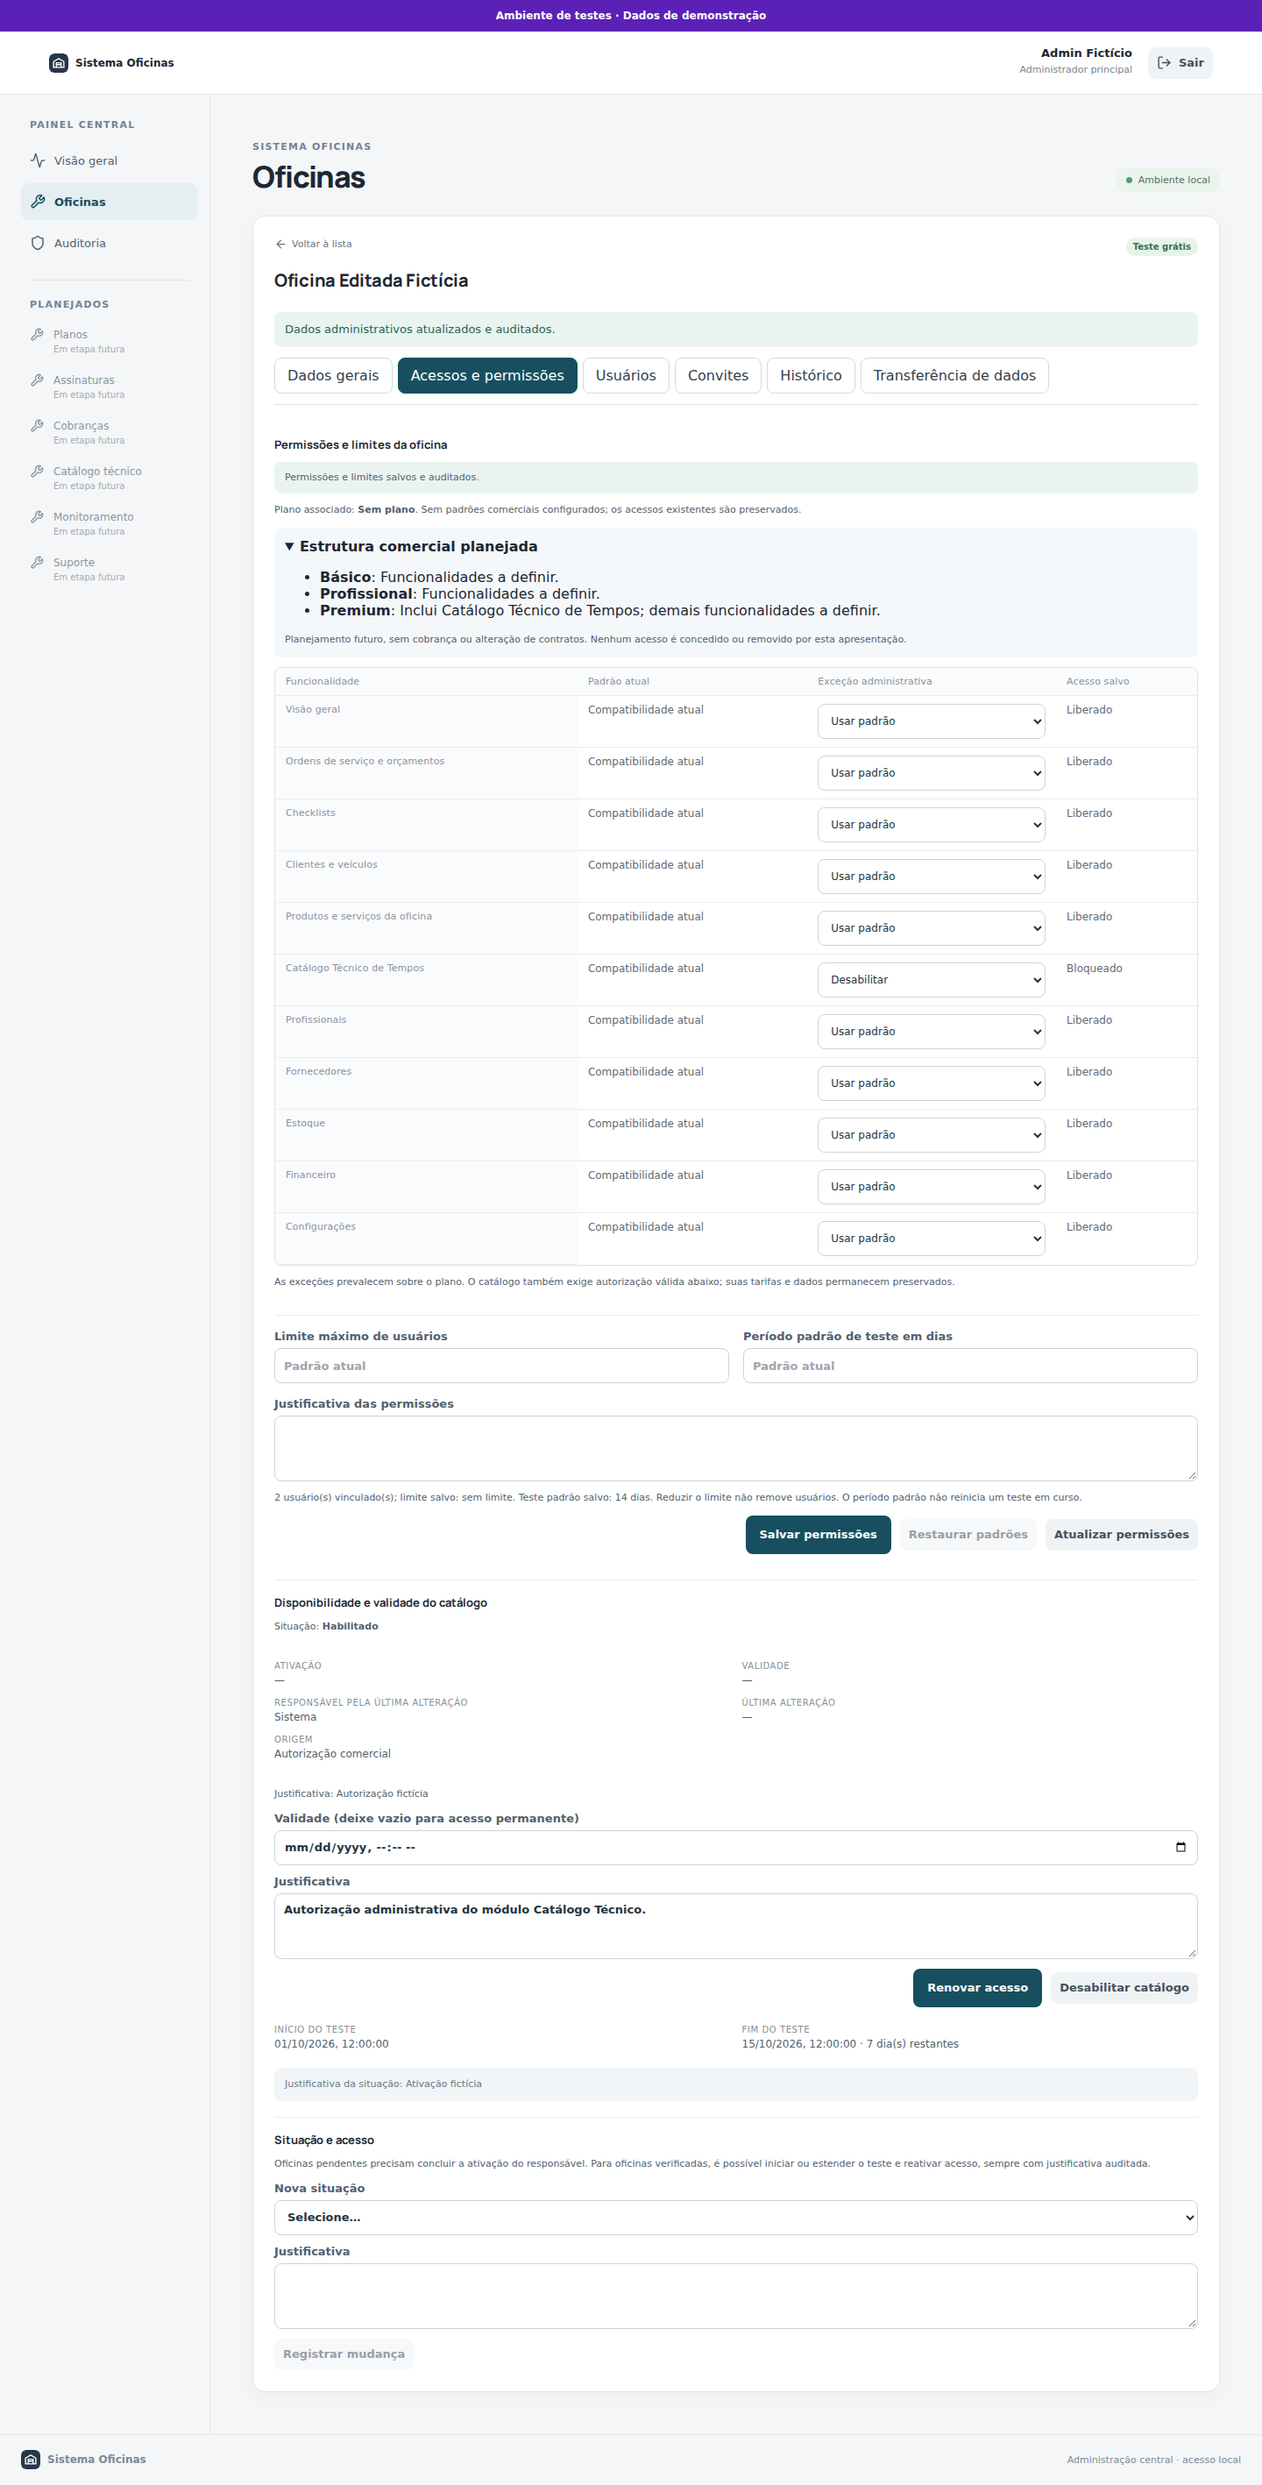
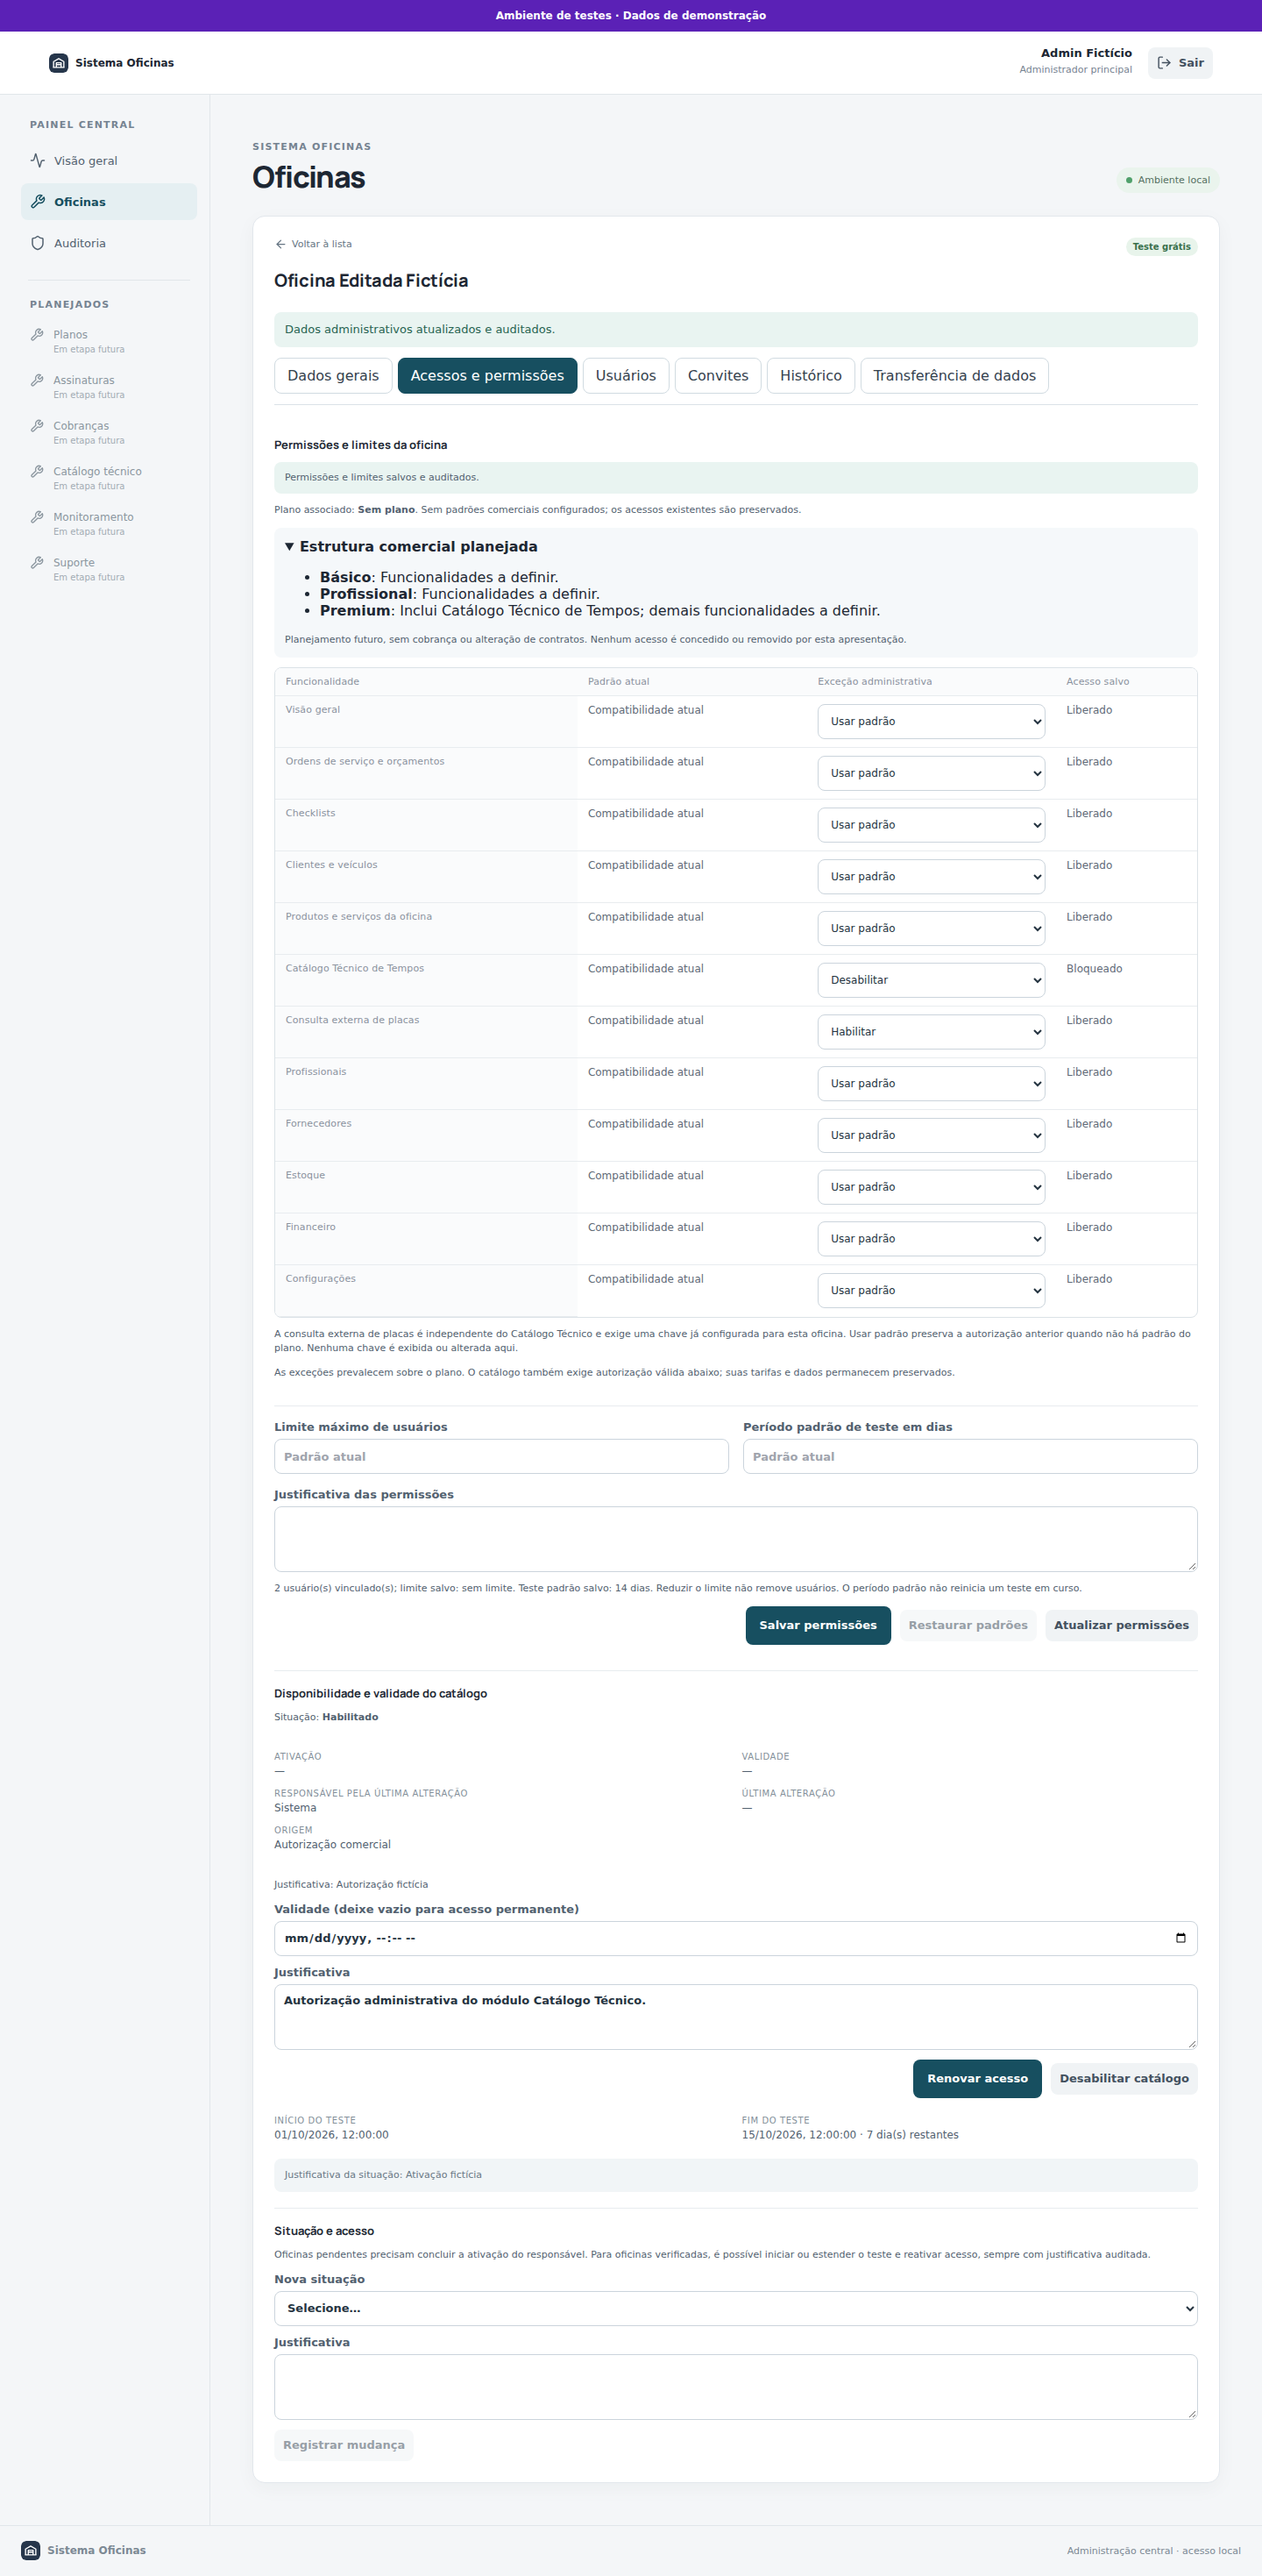
docs(admin): atualizar captura do controle de consulta de placas

diff --git a/docs/mapeamento-visual/CHECKLIST.md b/docs/mapeamento-visual/CHECKLIST.md
@@ -121,7 +121,7 @@ Estados: capturada, pendente, bloqueada e não aplicável.
 | cad005-review-footer-mobile | Veículos | CAD-005 — Revisão de veículo (mobile) — rodapé — Formulário real com dados fictícios; identificação FIPE independente da associação técnica. | [`capturas/04-veiculos/cad005-review-footer-mobile.png`](./capturas/04-veiculos/cad005-review-footer-mobile.png) | capturada | 2026-10-30 | f6e2a4cb13517dc8f57dc1703586ce27268d004c | — |
 | cad005-review-catalog-desktop | Veículos | CAD-005 — Associação manual no modal (desktop) — Clique real na marca e no modelo, gravação e reabertura do vínculo manual sem alterar a identificação FIPE. | [`capturas/04-veiculos/cad005-review-catalog-desktop.png`](./capturas/04-veiculos/cad005-review-catalog-desktop.png) | capturada | 2026-10-30 | e5a84d7a9bb11a524307051eb7da7c44bfddd12b | — |
 | cad005-review-catalog-mobile | Veículos | CAD-005 — Associação manual no modal (mobile) — Clique real na marca e no modelo, gravação e reabertura do vínculo manual sem alterar a identificação FIPE. | [`capturas/04-veiculos/cad005-review-catalog-mobile.png`](./capturas/04-veiculos/cad005-review-catalog-mobile.png) | capturada | 2026-10-30 | e5a84d7a9bb11a524307051eb7da7c44bfddd12b | — |
-| adm0021-oficina-permissoes-desktop | Painel Administrativo Central | Acessos e permissões da oficina — Interface real da ADM-002.1 em Chromium, com API fictícia interceptada; integração PostgreSQL validada separadamente. | [`capturas/17-painel-admin-central/adm0021-oficina-permissoes-desktop.png`](./capturas/17-painel-admin-central/adm0021-oficina-permissoes-desktop.png) | capturada | 2026-10-30 | fdbee764e0dfdcaeb7698131779d52a4a8a6a4a8 | Dados fictícios de navegador, sem credenciais, tokens ou acesso ao banco persistente. CI #273. |
+| adm0021-oficina-permissoes-desktop | Painel Administrativo Central | Acessos e permissões da oficina — ADM-002.2: consulta externa de placas liberada independentemente do catálogo. Interface real em Chromium com API fictícia; backend validado separadamente. | [`capturas/17-painel-admin-central/adm0021-oficina-permissoes-desktop.png`](./capturas/17-painel-admin-central/adm0021-oficina-permissoes-desktop.png) | capturada | 2026-11-01 | 2708c7c44e1db1c0938fbf03b17ff9ab8e7f1069 | Dados fictícios, sem chaves ou banco persistente. CI #277; captura revisada visualmente. |
 | adm0021-oficina-convites-mobile | Painel Administrativo Central | Convites e ativação no celular — Interface real da ADM-002.1 em Chromium, com API fictícia interceptada; integração PostgreSQL validada separadamente. | [`capturas/17-painel-admin-central/adm0021-oficina-convites-mobile.png`](./capturas/17-painel-admin-central/adm0021-oficina-convites-mobile.png) | capturada | 2026-10-30 | fdbee764e0dfdcaeb7698131779d52a4a8a6a4a8 | Dados fictícios de navegador, sem credenciais, tokens ou acesso ao banco persistente. CI #273. |
 | adm0021-oficina-dados-mobile | Painel Administrativo Central | Dados gerais no celular — Interface real da ADM-002.1 em Chromium, com API fictícia interceptada; integração PostgreSQL validada separadamente. | [`capturas/17-painel-admin-central/adm0021-oficina-dados-mobile.png`](./capturas/17-painel-admin-central/adm0021-oficina-dados-mobile.png) | capturada | 2026-10-30 | fdbee764e0dfdcaeb7698131779d52a4a8a6a4a8 | Dados fictícios de navegador, sem credenciais, tokens ou acesso ao banco persistente. CI #273. |
 | adm0021-oficina-usuarios-desktop | Painel Administrativo Central | Proprietários e colaboradores — Interface real da ADM-002.1 em Chromium, com API fictícia interceptada; integração PostgreSQL validada separadamente. | [`capturas/17-painel-admin-central/adm0021-oficina-usuarios-desktop.png`](./capturas/17-painel-admin-central/adm0021-oficina-usuarios-desktop.png) | capturada | 2026-10-30 | fdbee764e0dfdcaeb7698131779d52a4a8a6a4a8 | Dados fictícios de navegador, sem credenciais, tokens ou acesso ao banco persistente. CI #273. |

diff --git a/docs/mapeamento-visual/INDEX.md b/docs/mapeamento-visual/INDEX.md
@@ -520,11 +520,11 @@ Estado: capturada · mobile · captura 2026-10-22 · commit de origem: não regi
 
 ### Acessos e permissões da oficina
 
-Interface real da ADM-002.1 em Chromium, com API fictícia interceptada; integração PostgreSQL validada separadamente.
+ADM-002.2: consulta externa de placas liberada independentemente do catálogo. Interface real em Chromium com API fictícia; backend validado separadamente.
 
 [![Acessos e permissões da oficina](./capturas/17-painel-admin-central/adm0021-oficina-permissoes-desktop.png)](./capturas/17-painel-admin-central/adm0021-oficina-permissoes-desktop.png)
 
-Estado: capturada · desktop · captura 2026-10-30 · commit de origem: fdbee764e0dfdcaeb7698131779d52a4a8a6a4a8 · [arquivo completo](./capturas/17-painel-admin-central/adm0021-oficina-permissoes-desktop.png)
+Estado: capturada · desktop · captura 2026-11-01 · commit de origem: 2708c7c44e1db1c0938fbf03b17ff9ab8e7f1069 · [arquivo completo](./capturas/17-painel-admin-central/adm0021-oficina-permissoes-desktop.png)
 
 ### Convites e ativação no celular
 
